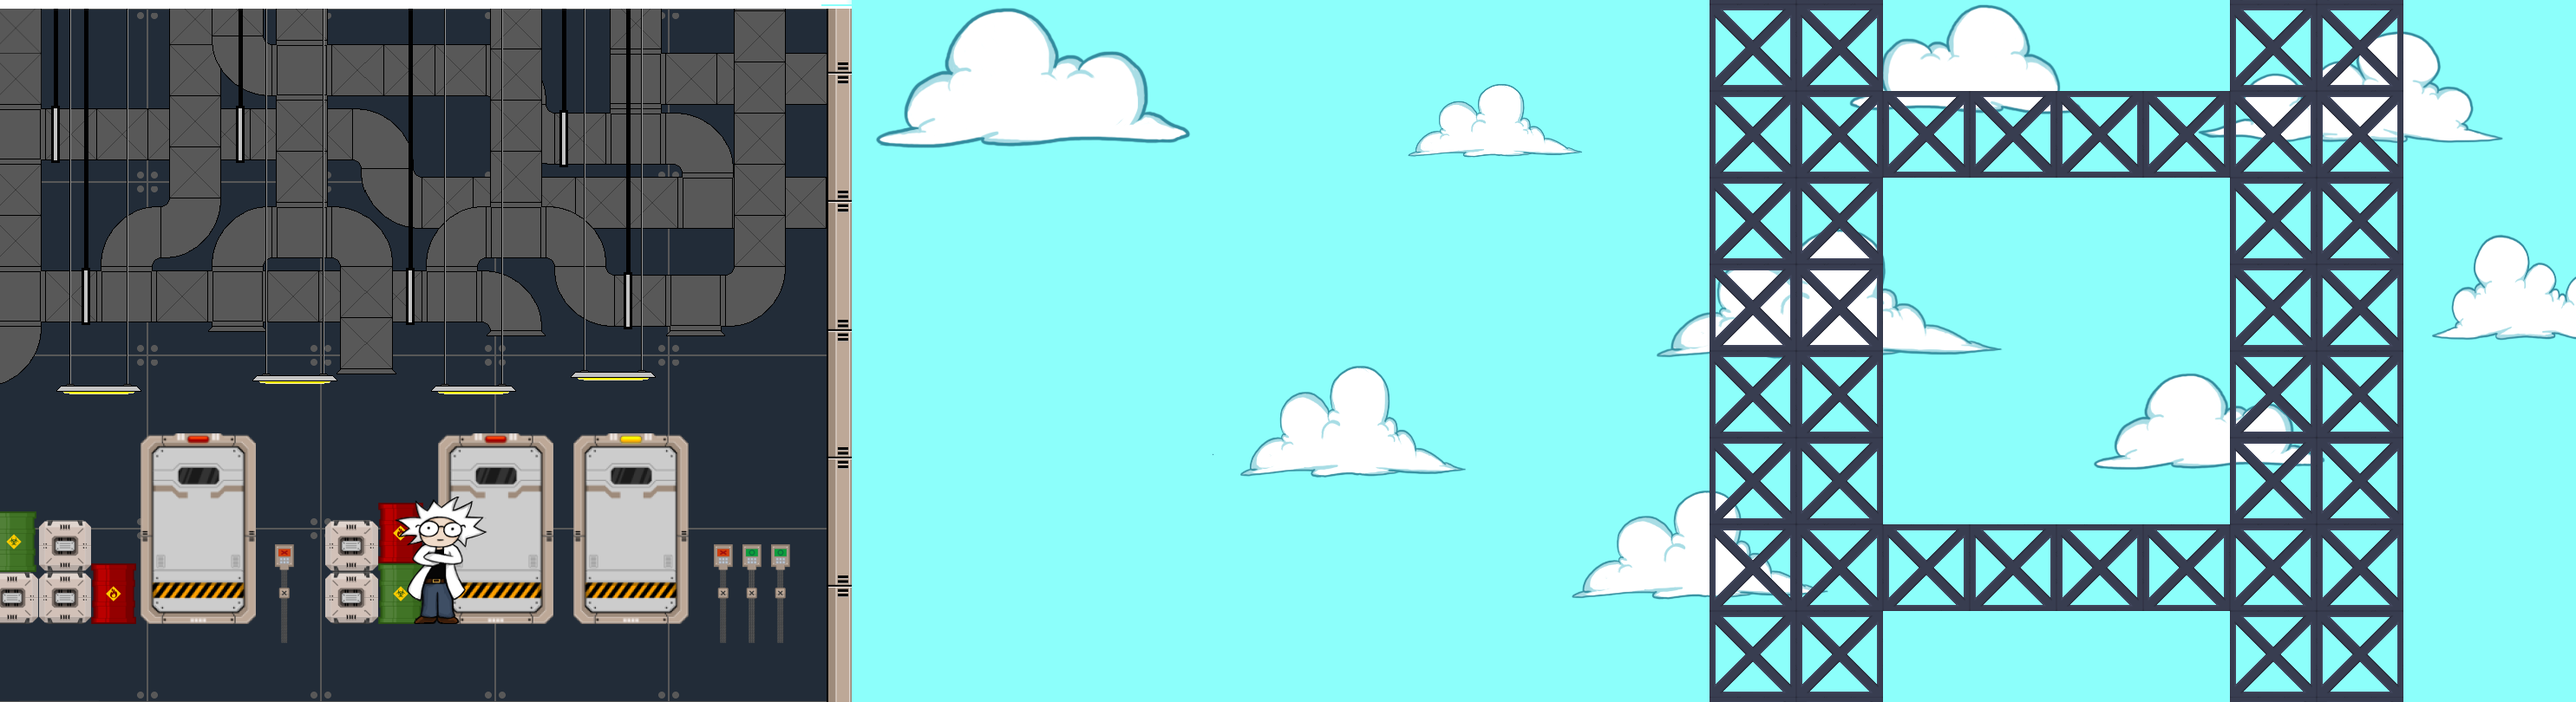
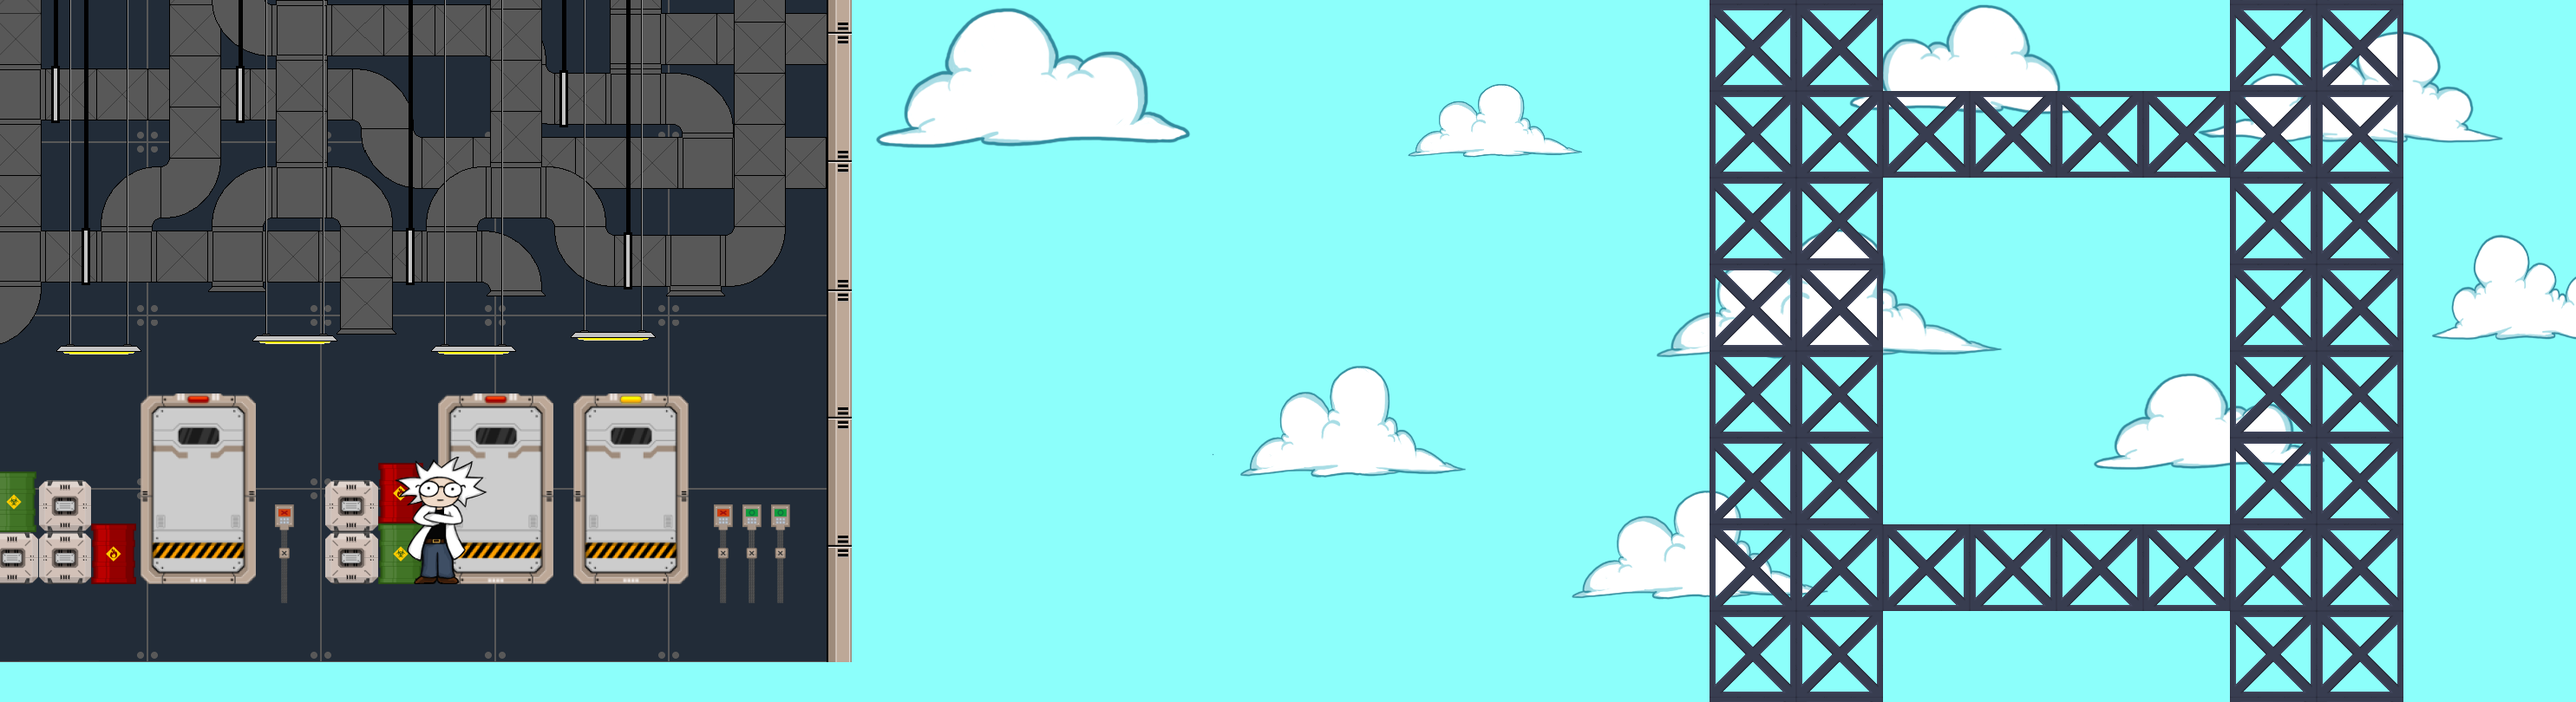
rework: sitne izmene u 5. nivou i u EnemyBoss
Popravljena pozadina za 5. nivo. EnemyBoss sada ima vise HP i krece se sporije
Njegova pozicija je sada hardcodovana u Level.cpp da bi se iscrtao prvi iza svih prepreka

Changed region(s): [[0.0, 0.0, 0.3407, 1.0], [0.3098, 0.5864, 0.3407, 0.6173], [0.3098, 0.463, 0.3407, 0.4938]]

diff --git a/timesweeper/Source/EnemyBoss.cpp b/timesweeper/Source/EnemyBoss.cpp
@@ -31,7 +31,7 @@ void EnemyBoss::advance(int phase)
 void EnemyBoss::move()
 {
     // ako EnemyBoss dodje do vrha scene GameOver
-    if(y() <= 0)
+    if(y() + boundingRect().height() <= 0)
     {
         emit game->m_player->playerIsDead();
     }
@@ -39,17 +39,17 @@ void EnemyBoss::move()
     // ide ka gore samo kada je PlayerCharacter blizu po x osi
     if(x() - game->m_player->x() < 400)
     {
-        setPos(x(), y() - 1);
+        setPos(x(), y() - 0.5);
         m_healthBar->m_bar->setPos(m_healthBar->m_bar->x(),
-                                 m_healthBar->m_bar->y() - 1);
+                                 m_healthBar->m_bar->y() - 0.5);
         m_healthBar->m_barFrame->setPos(m_healthBar->m_barFrame->x(),
-                                      m_healthBar->m_barFrame->y() - 1);
+                                      m_healthBar->m_barFrame->y() - 0.5);
     }
 }
 
 void EnemyBoss::decreaseHealth()
 {
-    if(this->getLives() > 17) // zeleno
+    if(this->getLives() > 40) // zeleno
     {
         setLives(--m_lives);
         game->m_currentLevel->removeItem(this->m_healthBar->m_bar);
@@ -59,7 +59,7 @@ void EnemyBoss::decreaseHealth()
         this->m_healthBar->m_bar->setBrush(Qt::green);
         game->m_currentLevel->addItem(this->m_healthBar->m_bar);
      }
-     else if(this->getLives() > 5 && this->getLives() <= 17) // zuto
+     else if(this->getLives() > 15 && this->getLives() <= 40) // zuto
      {
         setLives(--m_lives);
         game->m_currentLevel->removeItem(this->m_healthBar->m_bar);
@@ -69,7 +69,7 @@ void EnemyBoss::decreaseHealth()
         this->m_healthBar->m_bar->setBrush(Qt::yellow);
         game->m_currentLevel->addItem(this->m_healthBar->m_bar);
     }
-    else if(this->getLives() > 1 && this->getLives() <= 5) // crveno
+    else if(this->getLives() > 1 && this->getLives() <= 15) // crveno
     {
         setLives(--m_lives);
         game->m_currentLevel->removeItem(this->m_healthBar->m_bar);

diff --git a/timesweeper/Source/Level.cpp b/timesweeper/Source/Level.cpp
@@ -69,6 +69,12 @@ void Level::parseLevelFile(QString filename)
         m_scene->setSceneRect(0, 0, 45 * (sizeX - 1), 700);
     }
 
+    //specijalno hardcodujemo ovde poziciju bossa da bi se prvo iscrato, iza svih prepreka
+    if(game->getLevelID() == 5)
+    {
+        AddObject('F', 2170, 4320);
+    }
+
     // Prolazak kroz matricu i iscrtavanje
     for(int y = 0; y < sizeY; y++)
     {

diff --git a/timesweeper/Headers/EnemyBoss.h b/timesweeper/Headers/EnemyBoss.h
@@ -24,8 +24,8 @@ class EnemyBoss : public Character
         void move();
 
     private:
-        int m_lives    = 20;
-        int m_maxLives = 20;
+        int m_lives    = 80;
+        int m_maxLives = 80;
 };
 
 #endif // ENEMYBOSS_H
